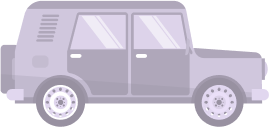
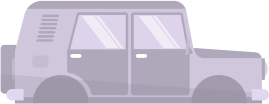
add wheels spin animation

diff --git a/source/scss/animation.scss b/source/scss/animation.scss
@@ -100,9 +100,8 @@
         display: flex;
         position: relative;
     }
-    &__card-one {
+    &__car-one {
         background: url('../img/animation/car-one.png') no-repeat;
-        background-size: cover;
         width: 251px;
         height: 100px;
         position: absolute;
@@ -111,8 +110,27 @@
         z-index: 4;
         animation: cars-move linear 7s forwards;
         animation-iteration-count: infinite;
+        &__wheel-one {
+            width: 41px;
+            height: 41px;
+            position: absolute;
+            bottom: 0%;
+            left: 14.5%;
+            animation: spin linear 1s;
+            animation-iteration-count: infinite;
+        }
+        &__wheel-two {
+            width: 41px;
+            height: 41px;
+            position: absolute;
+            bottom: 0%;
+            left: 73%;
+            animation: spin linear 1s;
+            animation-iteration-count: infinite;
+        }
     }
-    &__card-two {
+
+    &__car-two {
         background: url('../img/animation/car-two.png') no-repeat;
         background-size: cover;
         width: 204px;
@@ -123,8 +141,26 @@
         z-index: 4;
         animation: cars-move linear 5s forwards;
         animation-iteration-count: infinite;
+        &__wheel-one {
+            width: 21px;
+            height: 21px;
+            position: absolute;
+            bottom: 6%;
+            left: 11%;
+            animation: spin linear 1s;
+            animation-iteration-count: infinite;
+        }
+        &__wheel-two {
+            width: 21px;
+            height: 21px;
+            position: absolute;
+            bottom: 6%;;
+            left: 78.5%;
+            animation: spin linear 1s;
+            animation-iteration-count: infinite;
+        }
     }
-    &__card-three {
+    &__car-three {
         background: url('../img/animation/car-three.png') no-repeat;
         background-size: cover;
         width: 247px;
@@ -135,10 +171,27 @@
         z-index: 3;
         animation: cars-move linear 3s forwards;
         animation-iteration-count: infinite;
+        &__wheel-one {
+            width: 20px;
+            height: 20px;
+            position: absolute;
+            bottom: 7%;
+            left: 18.5%;
+            animation: spin linear 0.5s;
+            animation-iteration-count: infinite;
+        }
+        &__wheel-two {
+            width: 20px;
+            height: 20px;
+            position: absolute;
+            bottom: 7%;;
+            left: 76.5%;
+            animation: spin linear 0.5s;
+            animation-iteration-count: infinite;
+        }
     }
-    &__card-four {
+    &__car-four {
         background: url('../img/animation/car-four.png') no-repeat;
-        background-size: cover;
         width: 269px;
         height: 129px;
         position: absolute;
@@ -147,6 +200,24 @@
         z-index: 5;
         animation: cars-move linear 9s forwards;
         animation-iteration-count: infinite;
+        &__wheel-one {
+            width: 50px;
+            height: 50px;
+            position: absolute;
+            bottom: 0%;
+            left: 13.5%;
+            animation: spin linear 1s;
+            animation-iteration-count: infinite;
+        }
+        &__wheel-two {
+            width: 50px;
+            height: 50px;
+            position: absolute;
+            bottom: 0%;;
+            left: 72.5%;
+            animation: spin linear 1s;
+            animation-iteration-count: infinite;
+        }
     }
     &__lantern {
         position: absolute;
@@ -176,6 +247,24 @@
         transform: translateX(200%);
         animation: taxi-move 10s linear 5s;
         animation-iteration-count: infinite;
+        &__wheel-one {
+            width: 70px;
+            height: 70px;
+            position: absolute;
+            bottom: 7%;
+            left: 15%;
+            animation: drive-up 10s linear 5s;
+            animation-iteration-count: infinite;
+        }
+        &__wheel-two {
+            width: 70px;
+            height: 70px;
+            position: absolute;
+            bottom: 7%;
+            left: 73.5%;
+            animation: drive-up 10s linear 5s;
+            animation-iteration-count: infinite;
+        }
     }
     &__driver-message {
         position: absolute;
@@ -310,6 +399,15 @@
     }
   }
 
+@keyframes spin {
+   0% {
+        transform:rotate(0deg);
+    }
+    100% {
+        transform:rotate(360deg);
+    }
+  }
+
 @keyframes woman-say {
     0% {
         opacity: 0;
@@ -412,6 +510,24 @@
       transform: translateX(-600%);    
     }
 }
+
+@keyframes drive-up {
+   0% {
+        transform:rotate(360deg);
+    }
+    33% {
+        transform:rotate(0deg);
+    }
+    48% {
+        transform:rotate(0deg);
+    }
+    70% {
+        transform:rotate(-360deg);
+    }
+    100% {
+        transform:rotate(-360deg);
+    }
+  }
 
 @keyframes driver-say {
     0% {

diff --git a/source/animation.html b/source/animation.html
@@ -51,14 +51,29 @@
             </div>
             <div class="animation__town">
                 <div class="animation__highway">
-                    <div class="animation__card-one"></div>
-                    <div class="animation__card-two"></div>
-                    <div class="animation__card-three"></div>
-                    <div class="animation__card-four"></div>
+                    <div class="animation__car-one">
+                        <img class="animation__car-one__wheel-one" src="../img/animation/car-one-wheel.png" alt="wheel">
+                        <img class="animation__car-one__wheel-two" src="../img/animation/car-one-wheel.png" alt="wheel">
+                    </div>
+                    <div class="animation__car-two">
+                        <img class="animation__car-two__wheel-one" src="../img/animation/cars-wheel.png" alt="wheel">
+                        <img class="animation__car-two__wheel-two" src="../img/animation/cars-wheel.png" alt="wheel">
+                    </div>
+                    <div class="animation__car-three">
+                        <img class="animation__car-three__wheel-one" src="../img/animation/cars-wheel.png" alt="wheel">
+                        <img class="animation__car-three__wheel-two" src="../img/animation/cars-wheel.png" alt="wheel">
+                    </div>
+                    <div class="animation__car-four">
+                        <img class="animation__car-four__wheel-one" src="../img/animation/car-four-wheel.png" alt="wheel">
+                        <img class="animation__car-four__wheel-two" src="../img/animation/car-four-wheel.png" alt="wheel">
+                    </div>
                 </div>
                 <div class="animation__lantern animation__lantern--left"></div>
                 <div class="animation__lantern animation__lantern--right""></div>
-                <div class="animation__taxi"></div>
+                <div class="animation__taxi">
+                    <img class="animation__taxi__wheel-one" src="../img/animation/taxi-wheel.png" alt="wheel">
+                    <img class="animation__taxi__wheel-two" src="../img/animation/taxi-wheel.png" alt="wheel">
+                </div>
                 <div class="animation__driver-message"></div>
                 <div class="animation__roadside">
                     <div class="animation__woman-massege"></div>
